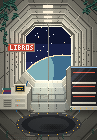
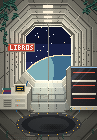
Draw plants at once, enlarge plant tap targets, show the app version
Keep the last deck on the device so the garden does not wait on the
network. Respace the rack and move the room arrows so every plant is a
finger-sized target. Settings now shows the installed Android version.

Changed region(s): [[0.7423, 0.6571, 0.9897, 0.7429], [0.7423, 0.5714, 0.9897, 0.6286]]

diff --git a/js/app.js b/js/app.js
@@ -145,25 +145,53 @@ async function fetchJson(url) {
   return res.json();
 }
 
+const DECK_KEY = 'freakbot.deck';
+
+function applyDeck(data) {
+  deck.chosen = data.chosen;
+  deck.lore = data.lore;
+  deck.milestones = data.milestones;
+  deck.locations = data.locations;
+  const byId = new Map();
+  for (const set of data.sets) {
+    for (const card of set.cards) {
+      if (!byId.has(card.id)) byId.set(card.id, card);
+    }
+  }
+  deck.byId = byId;
+  deck.list = [...byId.values()];
+  deck.appearance = [...new Set([...data.sets].reverse().flatMap((set) => set.cards.flatMap((card) => card.topics ?? [])))];
+}
+
+// The last deck this device saw, so the garden can draw at once. Today's cards still wait for a fresh load.
+function loadSavedDeck() {
+  try {
+    const data = JSON.parse(localStorage.getItem(DECK_KEY));
+    if (Array.isArray(data?.sets)) applyDeck(data);
+  } catch {
+    // The network load below fills it in.
+  }
+}
+
 async function loadDeck() {
   try {
-    deck.chosen = await fetchJson('data/plants.json').catch(() => ({}));
-    deck.lore = await fetchJson('data/lore.json').catch(() => []);
-    deck.milestones = await fetchJson('data/milestones.json').catch(() => []);
-    deck.locations = await fetchJson('data/locations.json').catch(() => []);
-    const { files } = await fetchJson('data/cards/index.json');
-    const ordered = [...files].sort((a, b) => fileRank(b).localeCompare(fileRank(a)));
+    const [chosen, lore, milestones, locations, index] = await Promise.all([
+      fetchJson('data/plants.json').catch(() => ({})),
+      fetchJson('data/lore.json').catch(() => []),
+      fetchJson('data/milestones.json').catch(() => []),
+      fetchJson('data/locations.json').catch(() => []),
+      fetchJson('data/cards/index.json'),
+    ]);
+    const ordered = [...index.files].sort((a, b) => fileRank(b).localeCompare(fileRank(a)));
     const sets = await Promise.all(ordered.map((f) => fetchJson(`data/cards/${f}`)));
-    const byId = new Map();
-    for (const set of sets) {
-      for (const card of set.cards) {
-        if (!byId.has(card.id)) byId.set(card.id, card);
-      }
-    }
-    deck.byId = byId;
-    deck.list = [...byId.values()];
-    deck.appearance = [...new Set([...sets].reverse().flatMap((set) => set.cards.flatMap((card) => card.topics ?? [])))];
+    const data = { chosen, lore, milestones, locations, sets };
+    applyDeck(data);
     deck.complete = true;
+    try {
+      localStorage.setItem(DECK_KEY, JSON.stringify(data));
+    } catch {
+      // Next start is just slower.
+    }
   } catch {
     deck.complete = false;
   }
@@ -175,10 +203,12 @@ async function boot() {
   store.subscribe(paintStrip);
   store.subscribe(pushWidget);
 
+  loadSavedDeck();
   tick();
   paintStrip();
 
   await loadDeck();
+  render();
   // Pull first so a second device picks up the day the first one already started.
   await Promise.race([store.sync(), new Promise((resolve) => setTimeout(resolve, FIRST_SYNC_WAIT_MS))]);
   prepareToday();

diff --git a/js/garden.js b/js/garden.js
@@ -19,7 +19,7 @@ export const ROOMS = [
     id: 'bay',
     label: 'Hydroponics bay',
     art: (band) => `art/out/f_${band}_bg.png`,
-    slots: [[64, 50], [76, 50], [64, 60], [76, 60], [64, 70], [76, 70], [1, 93], [71, 105], [17, 107], [29, 83], [24, 0], [46, 0]],
+    slots: [[62, 48], [75, 48], [62, 61], [75, 61], [62, 74], [75, 74], [1, 93], [71, 105], [17, 107], [29, 83], [24, 0], [46, 0]],
   },
   {
     id: 'archive',
@@ -221,8 +221,8 @@ function setupMoving(ctx, scene, plantEls, plants, rooms) {
   ROOMS[ctx.room].slots.forEach(([x, y], slot) => {
     if (used.has(slot)) return;
     const spot = h('button', { class: 'spot', 'aria-label': 'Empty spot', onclick: (e) => { e.stopPropagation(); place(slot); } });
-    spot.style.left = `${x * SCALE + 30}px`;
-    spot.style.top = `${y * SCALE + 92}px`;
+    spot.style.left = `${x * SCALE + 26}px`;
+    spot.style.top = `${y * SCALE + 84}px`;
     scene.append(spot);
   });
   // A tap on empty floor cancels. Changing rooms keeps the plant in hand.

diff --git a/js/settings.js b/js/settings.js
@@ -29,6 +29,14 @@ export function openSettings(store) {
     placeholder: store.hasToken ? 'token saved on this device' : 'paste token',
   });
 
+  // Only the Android app has this. Builds before 1.5 cannot report their version.
+  const version = h('p', { class: 'smallcaps app-version' });
+  const native = window.Capacitor?.Plugins?.FreakbotWidget;
+  if (native) {
+    version.textContent = 'Android app: older than 1.5';
+    native.info().then((r) => { version.textContent = `Android app ${r.version}`; }).catch(() => {});
+  }
+
   const close = () => dialog.close();
   const save = () => {
     if (input.value.trim()) store.setToken(input.value);
@@ -65,6 +73,7 @@ export function openSettings(store) {
       },
       'Auto-arrange plants',
     ),
+    version,
     h('p', { class: 'hint' }, 'A fine-grained GitHub token with Contents read and write on freakbot-garden-save only. It stays on this device.'),
     status,
     h(

diff --git a/css/app.css b/css/app.css
@@ -293,3 +293,12 @@ body[data-tab='herbarium'] #action:empty, body[data-tab='journal'] #action:empty
 .spot { position: absolute; z-index: 144; width: 44px; height: 40px; background: rgba(224, 169, 46, 0.3); box-shadow: inset 0 0 0 4px #E0A92E; }
 @keyframes pick { 50% { box-shadow: 0 0 0 4px #F8F7F2; } }
 @media (prefers-reduced-motion: reduce) { .plant-hit.picked { animation: none; } }
+
+/* Finger-sized plant targets, and room arrows moved up the walls, clear of the floor pots. */
+.plant-hit, .spot { width: 52px; height: 52px; }
+.plant-hit { left: 26px; top: 84px; }
+.room-nav { justify-content: center; }
+.room-arrow { position: absolute; bottom: 318px; width: 38px; height: 38px; }
+.room-arrow:first-child { left: 0; }
+.room-arrow:last-child { right: 0; }
+.app-version { margin-top: 8px; }

diff --git a/sw.js b/sw.js
@@ -1,5 +1,5 @@
 // Shell and art come from cache and refresh in the background. Cards prefer the network.
-const CACHE = 'freakbot-v11';
+const CACHE = 'freakbot-v12';
 
 const fonts = [
   'michroma-latin-400-normal',

diff --git a/app/android/app/src/main/java/garden/freakbot/app/FreakbotWidgetPlugin.java b/app/android/app/src/main/java/garden/freakbot/app/FreakbotWidgetPlugin.java
@@ -1,6 +1,7 @@
 package garden.freakbot.app;
 
 import android.content.Context;
+import com.getcapacitor.JSObject;
 import com.getcapacitor.Plugin;
 import com.getcapacitor.PluginCall;
 import com.getcapacitor.PluginMethod;
@@ -9,6 +10,18 @@ import com.getcapacitor.annotation.CapacitorPlugin;
 /** The web app calls this whenever the streak changes, so the widget never needs the sync token. */
 @CapacitorPlugin(name = "FreakbotWidget")
 public class FreakbotWidgetPlugin extends Plugin {
+    @PluginMethod
+    public void info(PluginCall call) {
+        JSObject result = new JSObject();
+        try {
+            Context context = getContext();
+            result.put("version", context.getPackageManager().getPackageInfo(context.getPackageName(), 0).versionName);
+            call.resolve(result);
+        } catch (android.content.pm.PackageManager.NameNotFoundException e) {
+            call.reject("version unavailable");
+        }
+    }
+
     @PluginMethod
     public void update(PluginCall call) {
         Context context = getContext();

diff --git a/art/final.py b/art/final.py
@@ -243,14 +243,14 @@ def sign_on_gallery(s,word):
                 if bit=='1': s.px(x0+2+i*4+dx,56+dy,ROSE_LIGHT,lit=True)
 
 def rack(s):
-    # three-tier grow rack right, about twice Freakbot's height, with a side panel running back into the room
+    # three-tier grow rack right (two shelves and the base, 13 px apart so each plant is a finger-sized target), with a side panel running back into the room
     quad(s,[(70,66),(66,69),(66,98),(70,110)],sh(S1,.7))
     line(s,(66,69),(66,98),sh(S0,.7))
     line(s,(66,69),(70,66),S4)
     s.rect(70,66,27,44,DARK); s.rect(70,66,27,1,S0); s.rect(70,67,27,1,ICE,lit=True); s.rect(70,66,1,44,S0)
-    for y in (82,92,102):
+    for y in (80,93):
         s.rect(72,y,24,2,S3); s.rect(72,y,24,1,S4)
-    for y in (72,86,96): s.rect(73,y,22,1,ROSE,lit=True)
+    for y in (72,85,98): s.rect(73,y,22,1,ROSE,lit=True)
     s.rect(70,106,27,4,S2); s.rect(70,106,27,1,S4)
     for x in range(74,96,6): s.px(x,108,MINT,lit=True)
 

diff --git a/DESIGN.md b/DESIGN.md
@@ -187,6 +187,7 @@ Stages can go down if mastery drops (the plant loses fruit, not its size: never 
 ### 6.1 Stack
 - Static site, no framework required (vanilla JS modules) or a small Vite + Preact build. Keep the bundle under 300 KB excluding art.
 - PWA: `manifest.webmanifest` (name "Freakbot", icon from the sprite, `display: standalone`, theme #D9DAD4) and a service worker that caches the shell, art and current cards for offline use.
+- The last loaded deck is kept in localStorage (`freakbot.deck`) so the garden draws at once on start; today's cards are still only picked after a fresh load and the first sync.
 - Hosting: GitHub Pages from the public repo, at `https://freakbot.nicolascardenasmiller.com/`.
 
 ### 6.2 Repos
@@ -248,6 +249,7 @@ Felix accepted that questions are public (they summarize published papers).
 - `app/` is a Capacitor shell (id `garden.freakbot.app`) that loads the live site, so web changes reach the phone without a reinstall. Only native changes need a new APK.
 - It adds a daily 19:35 reminder that only fires when today's cards are not done (a day finished on the Mac counts once the phone app has opened), and a home-screen streak widget drawn as pixel art on a 2 dp grid, shaped like a small viewport: the sky and planet for the time of day, Freakbot in a mood that follows the day beside your strongest plant, a water drop and big streak count (gold from 30 days), the last 7 days as squares, and a status in Spanish. The web app pushes `streak`, `freezes`, `lastDay` and `doneDay` to the native `FreakbotWidget` plugin whenever they change (`js/app.js → pushWidget`), so the widget never holds the sync token. The widget applies missed days itself, using the rule in 5.5.
 - Hardened: no app data backup, no WebView or app debugging, and only the internet, notification and boot permissions.
+- Settings shows the installed app version (from 1.5), since native changes only arrive with a new APK.
 - Installed directly on the phone, not through the Play Store. Build with `cd app/android && ./gradlew assembleDebug`.
 - The Mac keeps using the website.
 
